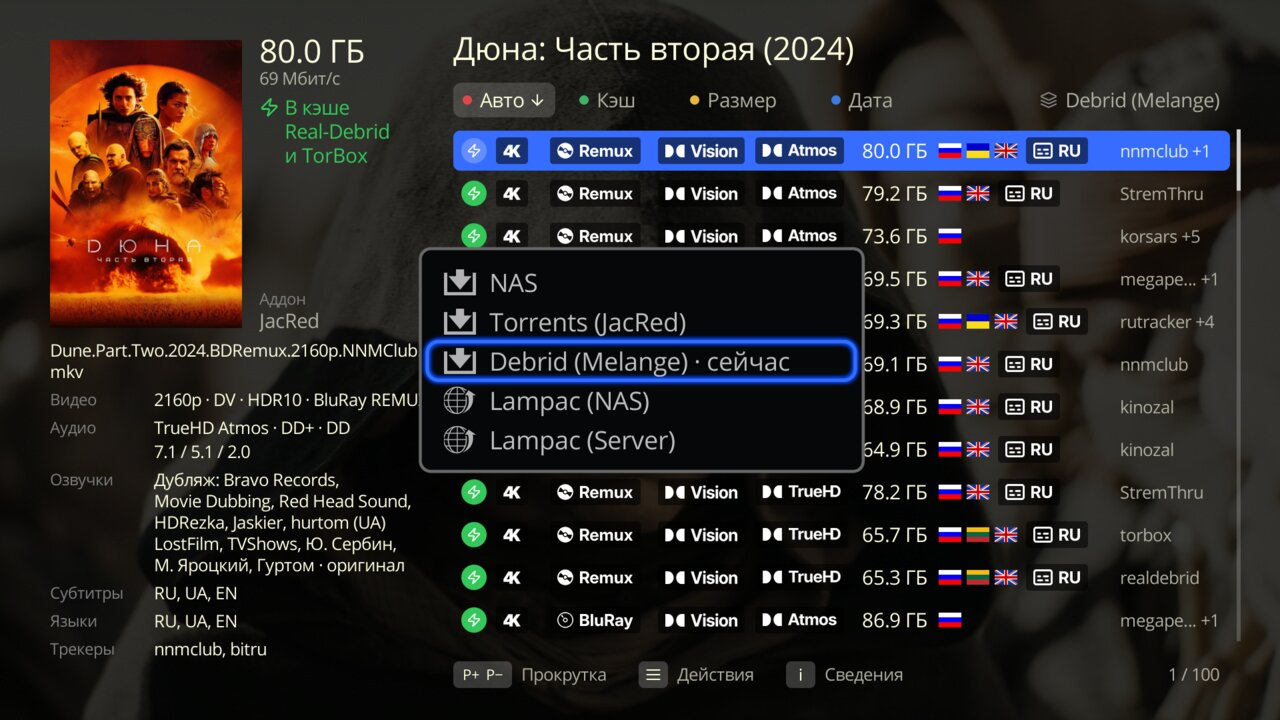
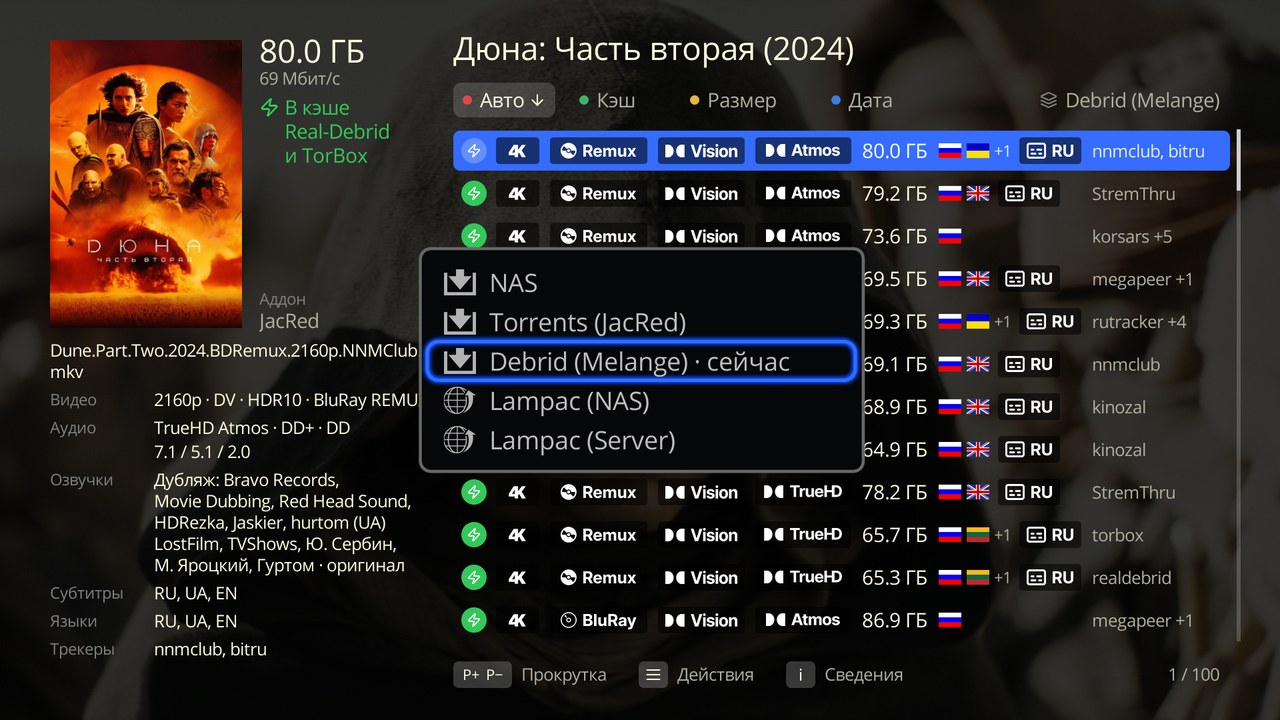
Гайд: новые кадры списка раздач 0.66.0, «+N» у флагов

diff --git a/docs/watch.md b/docs/watch.md
@@ -14,7 +14,7 @@
 
    <img src="../screenshots/own-card-film.jpg" alt="Карточка Melange «Тёмный рыцарь», фокус на «Смотреть», рядом «Трейлер» и «В избранное»" width="100%">
 
-4. Выберите раздачу и нажмите **ENTER**. Раздачи — это варианты файла фильма: качество, озвучка, размер. Чем больше сидов (раздающих, число в первой колонке), тем быстрее начнётся фильм. Флаги — языки озвучки; «?» вместо флага значит, что язык не подтверждён (в карточке слева он с вопросом: «RU?»). Метка «RU» со значком субтитров значит, что в раздаче есть русские субтитры.
+4. Выберите раздачу и нажмите **ENTER**. Раздачи — это варианты файла фильма: качество, озвучка, размер. Чем больше сидов (раздающих, число в первой колонке), тем быстрее начнётся фильм. Флаги — языки озвучки: в строке их не больше двух, остальные показаны числом «+1», «+2»; «?» вместо флага значит, что язык не подтверждён (в карточке слева он с вопросом: «RU?»). Метка «RU» со значком субтитров значит, что в раздаче есть русские субтитры.
 
    <img src="../screenshots/film-list-p2p.jpg" alt="Список раздач: в первой колонке число сидов" width="100%">
 

diff --git a/docs/watch.en.md b/docs/watch.en.md
@@ -14,7 +14,7 @@ Find and play a movie, then continue from the same spot. [← Contents](README.e
 
    <img src="../screenshots/own-card-film.jpg" alt="Melange card for The Dark Knight, focus on Watch, Trailer and Favorites next to it" width="100%">
 
-4. Choose a release and press **ENTER**. Releases are versions of the movie file: quality, voice-over, size. The more seeders (people sharing it, the number in the first column), the sooner the movie starts. The flags show dub languages. A "?" instead of a flag means the language is not confirmed (the card on the left shows it with a question mark: "RU?"). An "RU" label with a subtitles icon means the release has Russian subtitles.
+4. Choose a release and press **ENTER**. Releases are versions of the movie file: quality, voice-over, size. The more seeders (people sharing it, the number in the first column), the sooner the movie starts. The flags show dub languages: two at most, the rest as "+1", "+2". A "?" instead of a flag means the language is not confirmed (the card on the left shows it with a question mark: "RU?"). An "RU" label with a subtitles icon means the release has Russian subtitles.
 
    <img src="../screenshots/film-list-p2p.jpg" alt="Release list: number of seeders in the first column" width="100%">
 
